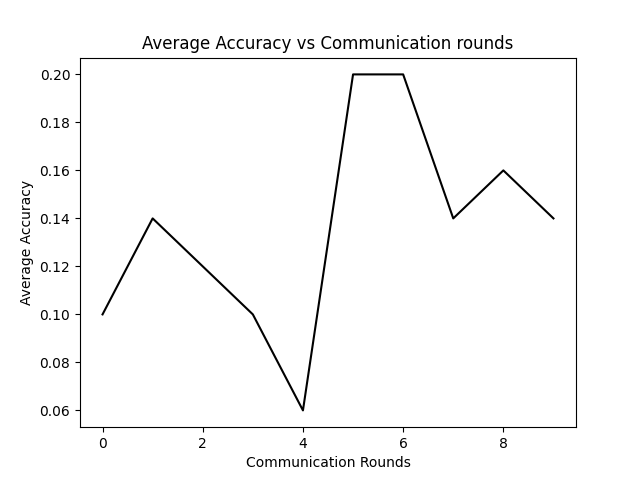
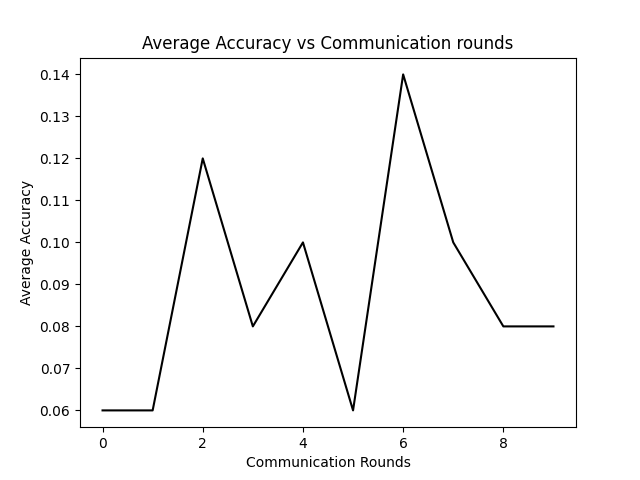
feat: LeNet5 corrections

diff --git a/src/models.py b/src/models.py
@@ -2,58 +2,43 @@
 # -*- coding: utf-8 -*-
 # Python version: 3.6
 
+import torch
 from torch import nn
 import torch.nn.functional as F
 
-
 class LeNet(nn.Module):
     def __init__(self):
-        super(LeNet,self).__init__()
-        #Here, we are plementing those layers which are having learnable parameters.
-        #Start implementation of Layer 1 (C1) which has 6 kernels of size 5x5 with padding 0 and stride 1
-        self.conv1 = nn.Conv2d(in_channels=3,out_channels=6,kernel_size=(5,5),padding=0,stride=1) # we changed channels in from 1 to 3 as the images on cifar are rgb
+        super(LeNet, self).__init__()
+        self.conv1 = nn.Conv2d(3, 64, 5)
+        self.conv2 = nn.Conv2d(64, 64, 5)
 
-        #Start implementation of Layer 3 (C3) which has 16 kernels of size 5x5 with padding 0 and stride 1
-        self.conv2 = nn.Conv2d(in_channels = 6, out_channels = 16,kernel_size = (5,5),padding=0,stride=1)
+        self.pool1 = nn.MaxPool2d(2)
+        self.pool2 = nn.MaxPool2d(2)
 
-        #Start implementation of Layer 5 (C5) which is basically flattening the data   
-        self.conv3 = nn.Conv2d(in_channels = 16, out_channels = 120,kernel_size = (5,5),padding=0,stride=1)
+        self.relu1 = nn.ReLU()
+        self.relu2 = nn.ReLU()
+        self.relu3 = nn.ReLU()
+        self.relu4 = nn.ReLU()
 
-        #Start implementation of Layer 6 (F6) which has 85 Linear Neurons and input of 120
-        self.L1 = nn.Linear(120,84)
-        
-        #Start implementation of Layer 7 (F7) which has 10 Linear Neurons and input of 84
-        self.L2 = nn.Linear(84,10)
+        self.fc1 = nn.Linear(64*5*5, 384)
+        self.fc2 = nn.Linear(384, 192)
+        self.fc3 = nn.Linear(192, 10)
 
-        #We have used pooling of size 2 and stride 2 in this architecture 
-        self.pool = nn.AvgPool2d(kernel_size = 2, stride = 2)
 
-        #We have used tanh as an activation function in this architecture so we will use tanh at all layers excluding F7.
-        self.act = nn.Tanh()
-        
-    #Now we will implement forward function to produce entire flow of the architecture.
-    
-    def forward(self,x):
-        x = self.conv1(x)
-        #We have used tanh as an activation function in this architecture so we will use tanh at all layers excluding F7.
-        x = self.act(x)
-        #Now this will be passed from pooling 
-        x = self.pool(x)
-        #Next stage is convolution
-        x = self.conv2(x)
-        x = self.act(x)
-        x = self.pool(x)
-        #next we will pass from conv3, here we will not pass data from pooling as per Architecture 
-        x = self.conv3(x)
-        x = self.act(x)
-        
-        #Now the data should be flaten and it would be passed from FC layers. 
-        x = x.view(x.size()[0], -1)
-        x = self.L1(x)
-        x = self.act(x)
-        x = self.L2(x)
-               
-        return x
+    def forward(self, x):
+        y = self.conv1(x)
+        y = self.pool1(y)
+        y = self.relu1(y)
+        y = self.conv2(y)
+        y = self.pool2(y)
+        y = self.relu2(y)
+        y = y.view(x.size()[0], -1)
+        y = self.fc1(y)
+        y = self.relu3(y)
+        y = self.fc2(y)
+        y = self.relu4(y)
+        y = self.fc3(y)
+        return torch.softmax(y,dim=1) 
 
 class MLP(nn.Module):
     def __init__(self, dim_in, dim_hidden, dim_out):
@@ -136,7 +121,7 @@ class CNNCifar(nn.Module):
 
 class modelC(nn.Module):
     def __init__(self, input_size, n_classes=10, **kwargs):
-        super(AllConvNet, self).__init__()
+        super(modelC, self).__init__()
         self.conv1 = nn.Conv2d(input_size, 96, 3, padding=1)
         self.conv2 = nn.Conv2d(96, 96, 3, padding=1)
         self.conv3 = nn.Conv2d(96, 96, 3, padding=1, stride=2)

diff --git a/src/federated_main.py b/src/federated_main.py
@@ -29,10 +29,10 @@ if __name__ == '__main__':
     args = args_parser()
     exp_details(args)
 
-    #if args.gpu_id:
+    # if args.gpu_id:
     #    torch.cuda.set_device(args.gpu_id)
     #device = 'cuda' if args.gpu else 'cpu'
-    device ='cpu'
+    device = 'cpu'
 
     # load dataset and user groups
     train_dataset, test_dataset, user_groups = get_dataset(args)
@@ -58,7 +58,7 @@ if __name__ == '__main__':
     elif args.model == 'lenet':
         # LeNet5
         global_model = LeNet()
-        
+
     else:
         exit('Error: unrecognized model')
 
@@ -79,7 +79,7 @@ if __name__ == '__main__':
 
     for epoch in tqdm(range(args.epochs)):
         local_weights, local_losses = [], []
-        print(f'\n | Global Training Round : {epoch+1} |\n')
+        print("\n | Global Training Round : ", epoch+1, " |\n")
 
         global_model.train()
         m = max(int(args.frac * args.num_users), 1)
@@ -115,14 +115,14 @@ if __name__ == '__main__':
 
         # print global training loss after every 'i' rounds
         if (epoch+1) % print_every == 0:
-            print(f' \nAvg Training Stats after {epoch+1} global rounds:')
-            print(f'Training Loss : {np.mean(np.array(train_loss))}')
+            print(" \nAvg Training Stats after ",epoch+1," global rounds:")
+            print("Training Loss : ",np.mean(np.array(train_loss)))
             print('Train Accuracy: {:.2f}% \n'.format(100*train_accuracy[-1]))
 
     # Test inference after completion of training
     test_acc, test_loss = test_inference(args, global_model, test_dataset)
 
-    print(f' \n Results after {args.epochs} global rounds of training:')
+    print(" \n Results after ",args.epochs," global rounds of training:")
     print("|---- Avg Train Accuracy: {:.2f}%".format(100*train_accuracy[-1]))
     print("|---- Test Accuracy: {:.2f}%".format(100*test_acc))
 
@@ -150,7 +150,7 @@ if __name__ == '__main__':
     plt.savefig('save/fed_{}_{}_{}_C[{}]_iid[{}]_E[{}]_B[{}]_loss.png'.
                 format(args.dataset, args.model, args.epochs, args.frac,
                        args.iid, args.local_ep, args.local_bs))
-    
+
     # Plot Average Accuracy vs Communication rounds
     plt.figure()
     plt.title('Average Accuracy vs Communication rounds')

diff --git a/src/baseline_main.py b/src/baseline_main.py
@@ -17,9 +17,10 @@ from models import MLP, CNNMnist, CNNFashion_Mnist, CNNCifar, LeNet
 
 if __name__ == '__main__':
     args = args_parser()
-    if args.gpu:
-        torch.cuda.set_device(args.gpu)
-    device = 'cuda' if args.gpu else 'cpu'
+    #if args.gpu:
+    #    torch.cuda.set_device(args.gpu)
+    #device = 'cuda' if args.gpu else 'cpu'
+    device = 'cpu'
 
     # load datasets
     train_dataset, test_dataset, _ = get_dataset(args)
